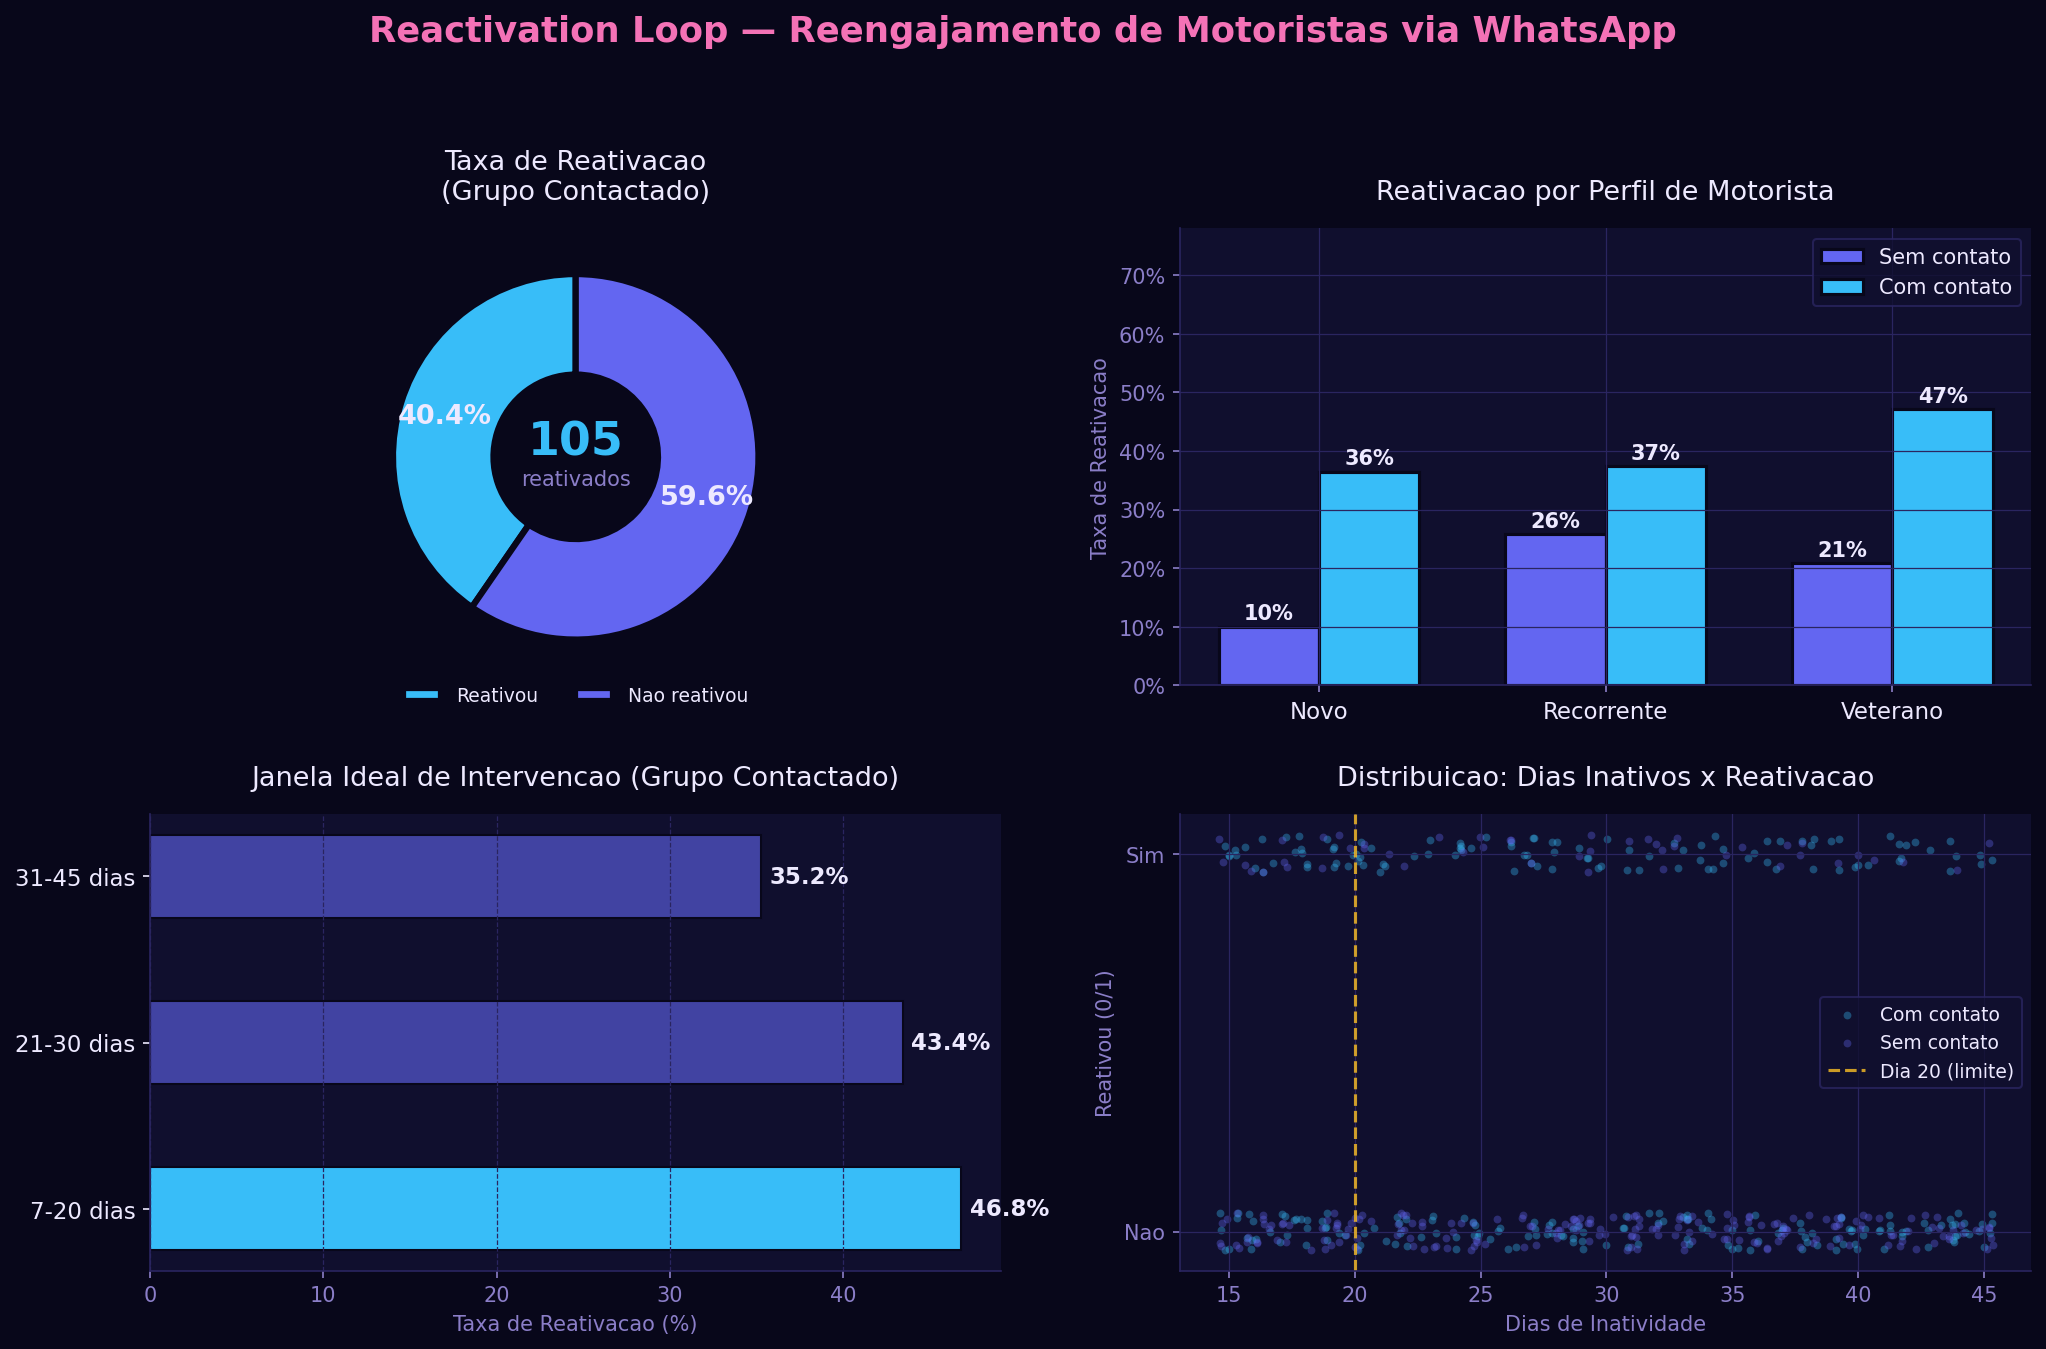
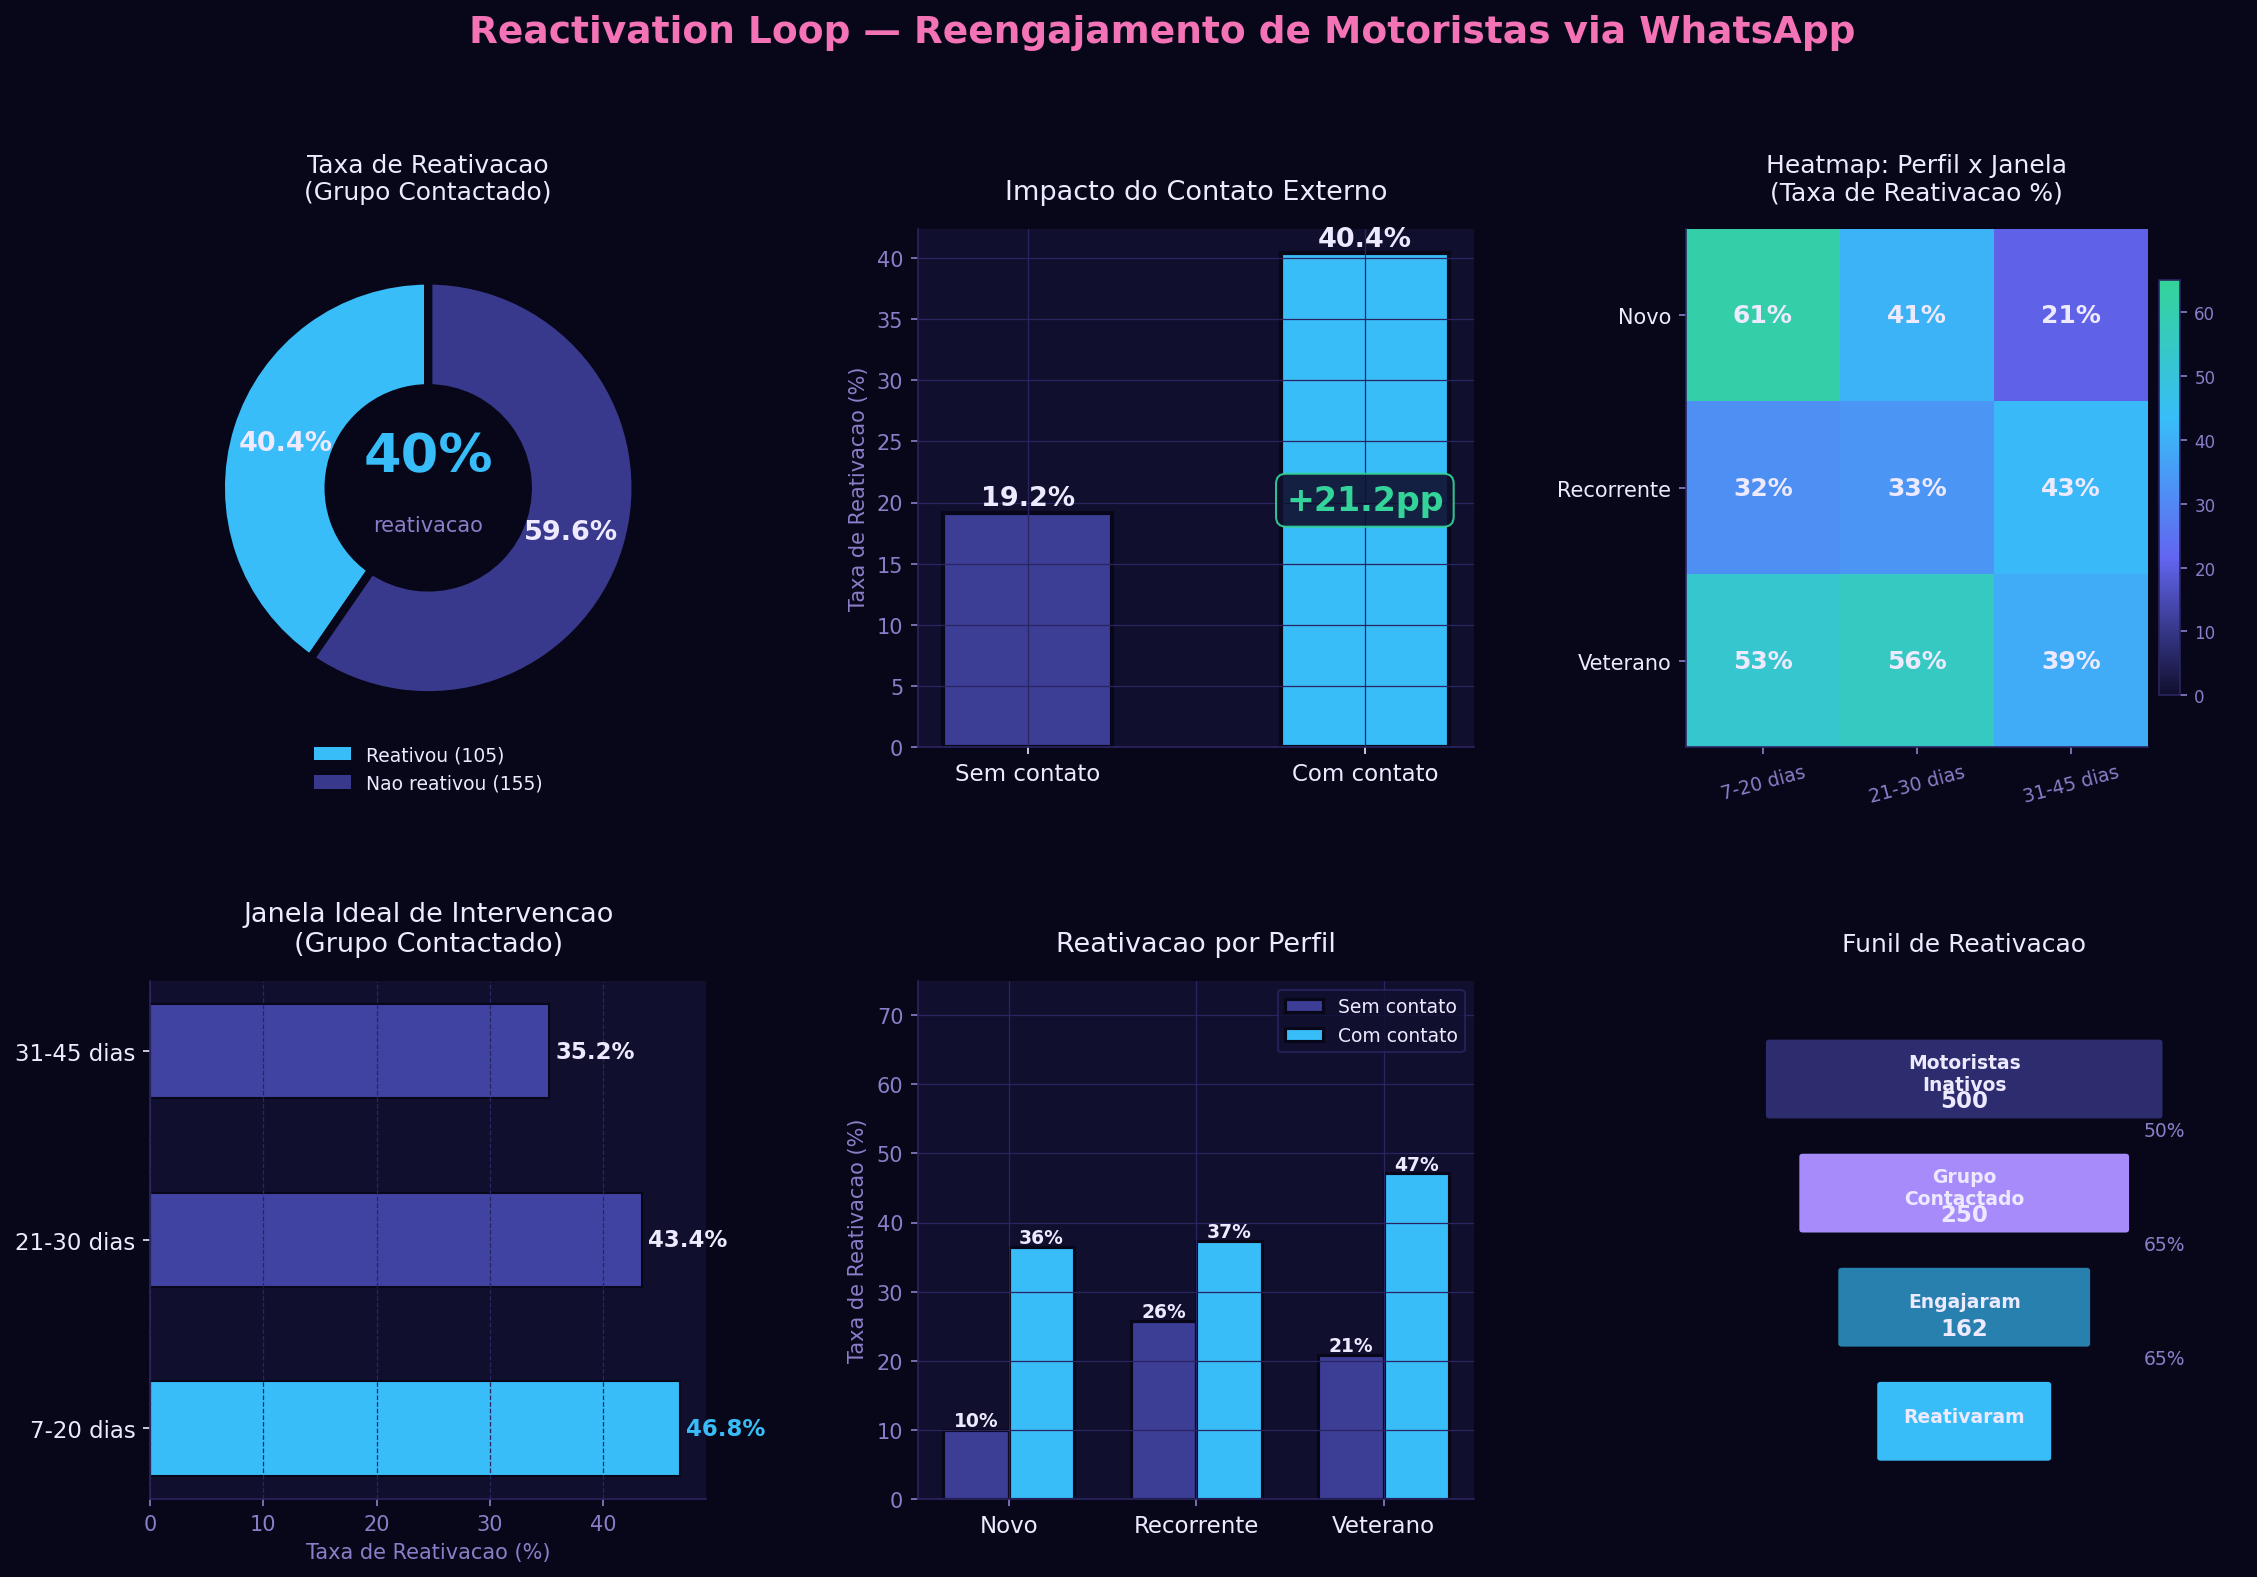
feat: add rich multi-panel graphs with dark purple theme

diff --git a/gerar_graficos.py b/gerar_graficos.py
@@ -1,0 +1,273 @@
+import matplotlib
+matplotlib.use("Agg")
+import matplotlib as mpl; mpl.rcParams.update(mpl.rcParamsDefault)
+import matplotlib.pyplot as plt
+import matplotlib.patches as mpatches
+import matplotlib.gridspec as gridspec
+from matplotlib.colors import LinearSegmentedColormap
+import numpy as np, pandas as pd
+
+BG='#08071a'; CARD='#100f2e'; BORDER='#2a2560'
+PURPLE='#6366f1'; LAV='#a78bfa'; CYAN='#38bdf8'
+PINK='#f472b6'; TEXT='#ede9ff'; MUTED='#8b7ec8'
+GREEN='#34d399'; YELLOW='#fbbf24'
+
+plt.rcParams.update({
+    'figure.facecolor':BG,'axes.facecolor':CARD,'axes.edgecolor':BORDER,
+    'axes.labelcolor':MUTED,'axes.titlecolor':TEXT,'axes.titlesize':13,
+    'axes.labelsize':10,'axes.titlepad':14,'axes.spines.top':False,
+    'axes.spines.right':False,'axes.grid':True,'grid.color':BORDER,
+    'grid.linewidth':0.6,'xtick.color':MUTED,'ytick.color':MUTED,
+    'text.color':TEXT,'font.family':'DejaVu Sans',
+    'legend.facecolor':CARD,'legend.edgecolor':BORDER,'legend.labelcolor':TEXT,
+})
+
+np.random.seed(42); n=500
+df=pd.DataFrame({'motorista_id':range(1,n+1),
+    'perfil':np.random.choice(['Novo','Recorrente','Veterano'],n,p=[0.3,0.4,0.3]),
+    'dias_inativo':np.random.randint(15,46,n),
+    'contato_externo':np.random.choice([0,1],n,p=[0.5,0.5])})
+
+def reativou(row):
+    base=0.15
+    if row['contato_externo']==1: base+=0.20
+    if row['perfil']=='Veterano': base+=0.10
+    elif row['perfil']=='Recorrente': base+=0.05
+    if row['dias_inativo']<=20: base+=0.10
+    return np.random.binomial(1,min(base,1))
+
+df['reativou']=df.apply(reativou,axis=1)
+df['janela']=pd.cut(df['dias_inativo'],bins=[14,20,30,45],labels=['7-20 dias','21-30 dias','31-45 dias'])
+perfis=['Novo','Recorrente','Veterano']
+janelas=['7-20 dias','21-30 dias','31-45 dias']
+
+# ── GRAF 1: Dashboard principal 2x3 ────────────────────────────────
+fig = plt.figure(figsize=(18,11))
+fig.patch.set_facecolor(BG)
+fig.suptitle('Reactivation Loop — Reengajamento de Motoristas via WhatsApp',
+             fontsize=18, fontweight='bold', color=PINK, y=1.01)
+gs = gridspec.GridSpec(2,3,figure=fig,hspace=0.45,wspace=0.38)
+
+# 1a. Donut
+ax0=fig.add_subplot(gs[0,0])
+ax0.set_facecolor(CARD); ax0.axis('off')
+total_c=df[df['contato_externo']==1]
+reativados=total_c['reativou'].sum(); nao_reat=len(total_c)-reativados
+taxa_geral=reativados/len(total_c)*100
+wedges,_,autotexts=ax0.pie([reativados,nao_reat],labels=None,autopct='%1.1f%%',
+    colors=[CYAN,PURPLE+'88'],startangle=90,pctdistance=0.72,
+    wedgeprops=dict(edgecolor=BG,linewidth=4,width=0.52))
+for at in autotexts:
+    at.set_fontsize(13); at.set_fontweight('bold'); at.set_color(TEXT)
+ax0.text(0,0.15,f'{taxa_geral:.0f}%',ha='center',va='center',fontsize=26,color=CYAN,fontweight='bold')
+ax0.text(0,-0.18,'reativacao',ha='center',va='center',fontsize=10,color=MUTED)
+ax0.legend(handles=[mpatches.Patch(facecolor=CYAN,label=f'Reativou ({reativados})'),
+    mpatches.Patch(facecolor=PURPLE+'88',label=f'Nao reativou ({nao_reat})')],
+    loc='lower center',bbox_to_anchor=(0.5,-0.12),ncol=1,fontsize=9,frameon=False)
+ax0.set_title('Taxa de Reativacao\n(Grupo Contactado)',color=TEXT,fontsize=12)
+
+# 1b. Barras impacto com delta
+ax1=fig.add_subplot(gs[0,1])
+ax1.set_facecolor(CARD)
+taxa=df.groupby('contato_externo')['reativou'].mean()*100
+bars=ax1.bar(['Sem contato','Com contato'],taxa.values,color=[PURPLE+'88',CYAN],width=0.5,edgecolor=BG,linewidth=2)
+for bar,val in zip(bars,taxa.values):
+    ax1.text(bar.get_x()+bar.get_width()/2,bar.get_height()+0.6,
+             f'{val:.1f}%',ha='center',fontsize=13,fontweight='bold',color=TEXT)
+delta=taxa[1]-taxa[0]
+ax1.annotate(f'+{delta:.1f}pp',xy=(1,taxa[1]/2),fontsize=16,fontweight='bold',color=GREEN,ha='center',va='center',
+    bbox=dict(boxstyle='round,pad=0.3',facecolor=CARD,edgecolor=GREEN,alpha=0.9))
+ax1.set_ylabel('Taxa de Reativacao (%)'); ax1.set_title('Impacto do Contato Externo')
+ax1.tick_params(axis='x',colors=TEXT,labelsize=11)
+ax1.spines['bottom'].set_color(BORDER); ax1.spines['left'].set_color(BORDER)
+
+# 1c. Heatmap perfil x janela
+ax2=fig.add_subplot(gs[0,2])
+ax2.set_facecolor(CARD)
+matriz=np.zeros((3,3))
+for i,p in enumerate(perfis):
+    for j,jan in enumerate(janelas):
+        sub=df[(df['perfil']==p)&(df['janela']==jan)&(df['contato_externo']==1)]
+        matriz[i,j]=sub['reativou'].mean()*100 if len(sub)>0 else 0
+cmap_h=LinearSegmentedColormap.from_list('hm',['#100f2e','#6366f1','#38bdf8','#34d399'])
+im=ax2.imshow(matriz,cmap=cmap_h,aspect='auto',vmin=0,vmax=65)
+ax2.set_xticks(range(3)); ax2.set_xticklabels(janelas,fontsize=9,color=MUTED,rotation=15)
+ax2.set_yticks(range(3)); ax2.set_yticklabels(perfis,fontsize=10,color=TEXT)
+for i in range(3):
+    for j in range(3):
+        ax2.text(j,i,f'{matriz[i,j]:.0f}%',ha='center',va='center',fontsize=12,fontweight='bold',color=TEXT)
+cb=fig.colorbar(im,ax=ax2,shrink=0.8,pad=0.02)
+cb.ax.tick_params(colors=MUTED,labelsize=8)
+ax2.set_title('Heatmap: Perfil x Janela\n(Taxa de Reativacao %)',color=TEXT,fontsize=12)
+ax2.grid(False)
+
+# 1d. Barras horizontais janela
+ax3=fig.add_subplot(gs[1,0])
+ax3.set_facecolor(CARD)
+ax3.grid(axis='x',color=BORDER,linewidth=0.6,linestyle='--'); ax3.grid(axis='y',visible=False)
+tj=df[df['contato_externo']==1].groupby('janela',observed=True)['reativou'].mean()*100
+cores_j=[CYAN if v==tj.max() else PURPLE+'99' for v in tj.values]
+bars=ax3.barh(tj.index.tolist(),tj.values,color=cores_j,edgecolor=BG,linewidth=1,height=0.5)
+for bar,val in zip(bars,tj.values):
+    ax3.text(val+0.5,bar.get_y()+bar.get_height()/2,f'{val:.1f}%',
+             va='center',fontsize=11,fontweight='bold',color=CYAN if val==tj.max() else TEXT)
+ax3.set_xlabel('Taxa de Reativacao (%)')
+ax3.set_title('Janela Ideal de Intervencao\n(Grupo Contactado)')
+ax3.tick_params(axis='y',colors=TEXT,labelsize=11)
+ax3.spines['bottom'].set_color(BORDER); ax3.spines['left'].set_color(BORDER)
+
+# 1e. Barras agrupadas por perfil
+ax4=fig.add_subplot(gs[1,1])
+ax4.set_facecolor(CARD)
+x=np.arange(3); w=0.35
+for grp,cor,off in [('Sem contato',PURPLE+'88',-w/2),('Com contato',CYAN,w/2)]:
+    flag=0 if grp=='Sem contato' else 1
+    vals=[df[(df['perfil']==p)&(df['contato_externo']==flag)]['reativou'].mean()*100 for p in perfis]
+    bars2=ax4.bar(x+off,vals,width=w,color=cor,edgecolor=BG,linewidth=1.5,label=grp)
+    for bar in bars2:
+        h=bar.get_height()
+        ax4.text(bar.get_x()+bar.get_width()/2,h+0.5,f'{h:.0f}%',ha='center',fontsize=9,fontweight='bold',color=TEXT)
+ax4.set_title('Reativacao por Perfil')
+ax4.set_ylabel('Taxa de Reativacao (%)')
+ax4.set_xticks(x); ax4.set_xticklabels(perfis,fontsize=11,color=TEXT)
+ax4.set_ylim(0,75); ax4.legend(frameon=True,fontsize=9)
+ax4.spines['bottom'].set_color(BORDER); ax4.spines['left'].set_color(BORDER)
+
+# 1f. Funil de reativacao
+ax5=fig.add_subplot(gs[1,2])
+ax5.set_facecolor(CARD); ax5.axis('off')
+etapas=['Motoristas\nInativos','Grupo\nContactado','Engajaram','Reativaram']
+valores=[500,250,int(250*0.65),reativados]
+cores_f=[PURPLE+'66',LAV,CYAN+'aa',CYAN]
+widths=[0.70,0.58,0.44,0.30]
+y_pos=[0.82,0.60,0.38,0.16]
+for i,(etapa,val,cor,wf,yf) in enumerate(zip(etapas,valores,cores_f,widths,y_pos)):
+    x0=(1-wf)/2
+    rect=mpatches.FancyBboxPatch((x0,yf-0.08),wf,0.14,boxstyle='round,pad=0.01',
+        facecolor=cor,edgecolor=BG,linewidth=2,transform=ax5.transAxes,clip_on=False)
+    ax5.add_patch(rect)
+    ax5.text(0.5,yf,etapa,ha='center',va='center',fontsize=9,color=TEXT,fontweight='bold',transform=ax5.transAxes)
+    ax5.text(0.5,yf-0.052,str(val),ha='center',va='center',fontsize=11,
+             color=CYAN if i==3 else TEXT,fontweight='bold',transform=ax5.transAxes)
+    if i<3:
+        pct=valores[i+1]/valores[i]*100
+        ax5.text(0.86,(y_pos[i]+y_pos[i+1])/2,f'{pct:.0f}%',
+                 ha='center',va='center',fontsize=9,color=MUTED,transform=ax5.transAxes)
+ax5.set_title('Funil de Reativacao',color=TEXT,fontsize=12,pad=14)
+
+plt.savefig('graf1_contactado_vs_controle.png',dpi=150,bbox_inches='tight',facecolor=BG)
+plt.close(); print('graf1 salvo')
+
+# ── GRAF 2: Segmentacao detalhada ──────────────────────────────────
+fig,axs=plt.subplots(1,3,figsize=(18,6))
+fig.patch.set_facecolor(BG)
+fig.suptitle('Segmentacao Detalhada — Perfil, Distribuicao e Tendencia',fontsize=15,fontweight='bold',color=TEXT)
+
+# 2a. Stacked 100%
+ax=axs[0]; ax.set_facecolor(CARD)
+resumo=df[df['contato_externo']==1].groupby('perfil')['reativou'].agg(['sum','count'])
+resumo['pct_sim']=resumo['sum']/resumo['count']*100
+resumo['pct_nao']=100-resumo['pct_sim']
+resumo=resumo.loc[perfis]
+x=np.arange(3)
+ax.bar(x,resumo['pct_sim'].values,color=CYAN,edgecolor=BG,linewidth=1.5,label='Reativou',width=0.5)
+ax.bar(x,resumo['pct_nao'].values,bottom=resumo['pct_sim'].values,color=PURPLE+'66',edgecolor=BG,linewidth=1.5,label='Nao reativou',width=0.5)
+for i,(_,row) in enumerate(resumo.iterrows()):
+    ax.text(i,row['pct_sim']/2,f'{row["pct_sim"]:.0f}%',ha='center',va='center',fontsize=13,fontweight='bold',color=BG)
+    ax.text(i,row['pct_sim']+row['pct_nao']/2,f'{row["pct_nao"]:.0f}%',ha='center',va='center',fontsize=11,color=MUTED)
+ax.set_xticks(x); ax.set_xticklabels(perfis,color=TEXT,fontsize=11)
+ax.set_ylabel('Composicao (%)'); ax.set_title('Composicao 100%\npor Perfil (Grupo Contactado)')
+ax.set_ylim(0,112); ax.legend(frameon=True,fontsize=9)
+ax.spines['bottom'].set_color(BORDER); ax.spines['left'].set_color(BORDER)
+
+# 2b. Boxplot dias inativos
+ax=axs[1]; ax.set_facecolor(CARD)
+grp_c=df[df['contato_externo']==1]
+g_sim=grp_c[grp_c['reativou']==1]['dias_inativo'].values
+g_nao=grp_c[grp_c['reativou']==0]['dias_inativo'].values
+bp=ax.boxplot([g_sim,g_nao],patch_artist=True,widths=0.4,
+    medianprops=dict(color=TEXT,linewidth=2.5),
+    whiskerprops=dict(color=MUTED,linewidth=1.3),
+    capprops=dict(color=MUTED,linewidth=1.3),
+    flierprops=dict(marker='o',markerfacecolor=CARD,markeredgecolor=MUTED,markersize=4,alpha=0.5))
+bp['boxes'][0].set_facecolor(CYAN+'55'); bp['boxes'][0].set_edgecolor(CYAN)
+bp['boxes'][1].set_facecolor(PINK+'44'); bp['boxes'][1].set_edgecolor(PINK)
+ax.set_xticks([1,2]); ax.set_xticklabels(['Reativou','Nao Reativou'],color=TEXT,fontsize=11)
+med0=np.median(g_sim); med1=np.median(g_nao)
+ax.text(1,med0+1.5,f'Med: {med0:.0f}d',ha='center',fontsize=10,color=CYAN,fontweight='bold')
+ax.text(2,med1+1.5,f'Med: {med1:.0f}d',ha='center',fontsize=10,color=PINK,fontweight='bold')
+ax.set_ylabel('Dias de Inatividade')
+ax.set_title('Distribuicao de Dias Inativos\n(Reativou x Nao reativou)')
+ax.spines['bottom'].set_color(BORDER); ax.spines['left'].set_color(BORDER)
+
+# 2c. Linha acumulada
+ax=axs[2]; ax.set_facecolor(CARD)
+dias_range=list(range(15,46))
+taxa_c=[df[(df['contato_externo']==1)&(df['dias_inativo']<=d)]['reativou'].mean()*100 for d in dias_range]
+taxa_nc=[df[(df['contato_externo']==0)&(df['dias_inativo']<=d)]['reativou'].mean()*100 for d in dias_range]
+ax.fill_between(dias_range,taxa_c,taxa_nc,alpha=0.15,color=CYAN)
+ax.plot(dias_range,taxa_c,color=CYAN,linewidth=2.5,label='Com contato')
+ax.plot(dias_range,taxa_nc,color=PINK,linewidth=2,linestyle='--',label='Sem contato')
+ax.axvline(20,color=YELLOW,linewidth=1.5,linestyle=':',alpha=0.8,label='Dia 20')
+ax.fill_betweenx([0,50],15,20,alpha=0.06,color=GREEN)
+ax.text(17.5,44,'Janela\notima',ha='center',fontsize=9,color=GREEN,fontweight='bold')
+ax.set_xlabel('Dias de Inatividade (acumulado)')
+ax.set_ylabel('Taxa de Reativacao (%)')
+ax.set_title('Taxa Acumulada de Reativacao\npor Dia de Inatividade')
+ax.legend(frameon=True,fontsize=9); ax.set_xlim(15,45)
+ax.spines['bottom'].set_color(BORDER); ax.spines['left'].set_color(BORDER)
+
+plt.tight_layout(pad=2.5)
+plt.savefig('graf2_reativacao_por_perfil.png',dpi=150,bbox_inches='tight',facecolor=BG)
+plt.close(); print('graf2 salvo')
+
+# ── GRAF 3: Janela + Delta ──────────────────────────────────────────
+fig,axs=plt.subplots(1,3,figsize=(18,6))
+fig.patch.set_facecolor(BG)
+fig.suptitle('Analise da Janela de Intervencao e Impacto por Segmento',fontsize=15,fontweight='bold',color=TEXT)
+
+ax=axs[0]; ax.set_facecolor(CARD)
+tj=df[df['contato_externo']==1].groupby('janela',observed=True)['reativou'].mean()*100
+tjc=df[df['contato_externo']==0].groupby('janela',observed=True)['reativou'].mean()*100
+x=np.arange(3); w=0.35
+b1=ax.bar(x-w/2,tjc.values,width=w,color=PURPLE+'88',edgecolor=BG,linewidth=1.5,label='Sem contato')
+b2=ax.bar(x+w/2,tj.values,width=w,color=CYAN,edgecolor=BG,linewidth=1.5,label='Com contato')
+for bars_g in [b1,b2]:
+    for bar in bars_g:
+        h=bar.get_height()
+        ax.text(bar.get_x()+bar.get_width()/2,h+0.5,f'{h:.0f}%',ha='center',fontsize=10,fontweight='bold',color=TEXT)
+ax.set_xticks(x); ax.set_xticklabels(tj.index.tolist(),color=TEXT,fontsize=11)
+ax.set_ylabel('Taxa de Reativacao (%)'); ax.set_title('Reativacao por Janela\nContactado vs Controle')
+ax.legend(frameon=True,fontsize=10); ax.yaxis.set_major_formatter(plt.FuncFormatter(lambda v,_:f'{v:.0f}%'))
+ax.spines['bottom'].set_color(BORDER); ax.spines['left'].set_color(BORDER)
+
+ax=axs[1]; ax.set_facecolor(CARD)
+delta_j=tj.values-tjc.values
+bars=ax.bar(tj.index.tolist(),delta_j,color=GREEN,edgecolor=BG,linewidth=1.5,width=0.5)
+for bar,val in zip(bars,delta_j):
+    ax.text(bar.get_x()+bar.get_width()/2,val+0.3,f'+{val:.1f}pp',
+            ha='center',fontsize=13,fontweight='bold',color=TEXT)
+ax.axhline(0,color=MUTED,linewidth=1,alpha=0.5)
+ax.set_ylabel('Ganho em pp'); ax.set_title('Ganho do Contato por Janela\n(Delta = Contactado - Controle)')
+ax.tick_params(axis='x',colors=TEXT,labelsize=11)
+ax.spines['bottom'].set_color(BORDER); ax.spines['left'].set_color(BORDER)
+
+ax=axs[2]; ax.set_facecolor(CARD)
+delta_perf=[]
+for p in perfis:
+    t_c=df[(df['perfil']==p)&(df['contato_externo']==1)]['reativou'].mean()*100
+    t_nc=df[(df['perfil']==p)&(df['contato_externo']==0)]['reativou'].mean()*100
+    delta_perf.append(t_c-t_nc)
+bars=ax.bar(perfis,delta_perf,color=[CYAN,LAV,PINK],edgecolor=BG,linewidth=1.5,width=0.5)
+for bar,val in zip(bars,delta_perf):
+    ax.text(bar.get_x()+bar.get_width()/2,val+0.3,f'+{val:.1f}pp',
+            ha='center',fontsize=13,fontweight='bold',color=TEXT)
+ax.axhline(0,color=MUTED,linewidth=1,alpha=0.5)
+ax.set_ylabel('Ganho em pp (Contactado - Controle)')
+ax.set_title('Ganho do Contato por Perfil\n(Quem mais se beneficia?)')
+ax.tick_params(axis='x',colors=TEXT,labelsize=11)
+ax.spines['bottom'].set_color(BORDER); ax.spines['left'].set_color(BORDER)
+
+plt.tight_layout(pad=2.5)
+plt.savefig('graf3_janela_intervencao.png',dpi=150,bbox_inches='tight',facecolor=BG)
+plt.close(); print('graf3 salvo - todos prontos!')
